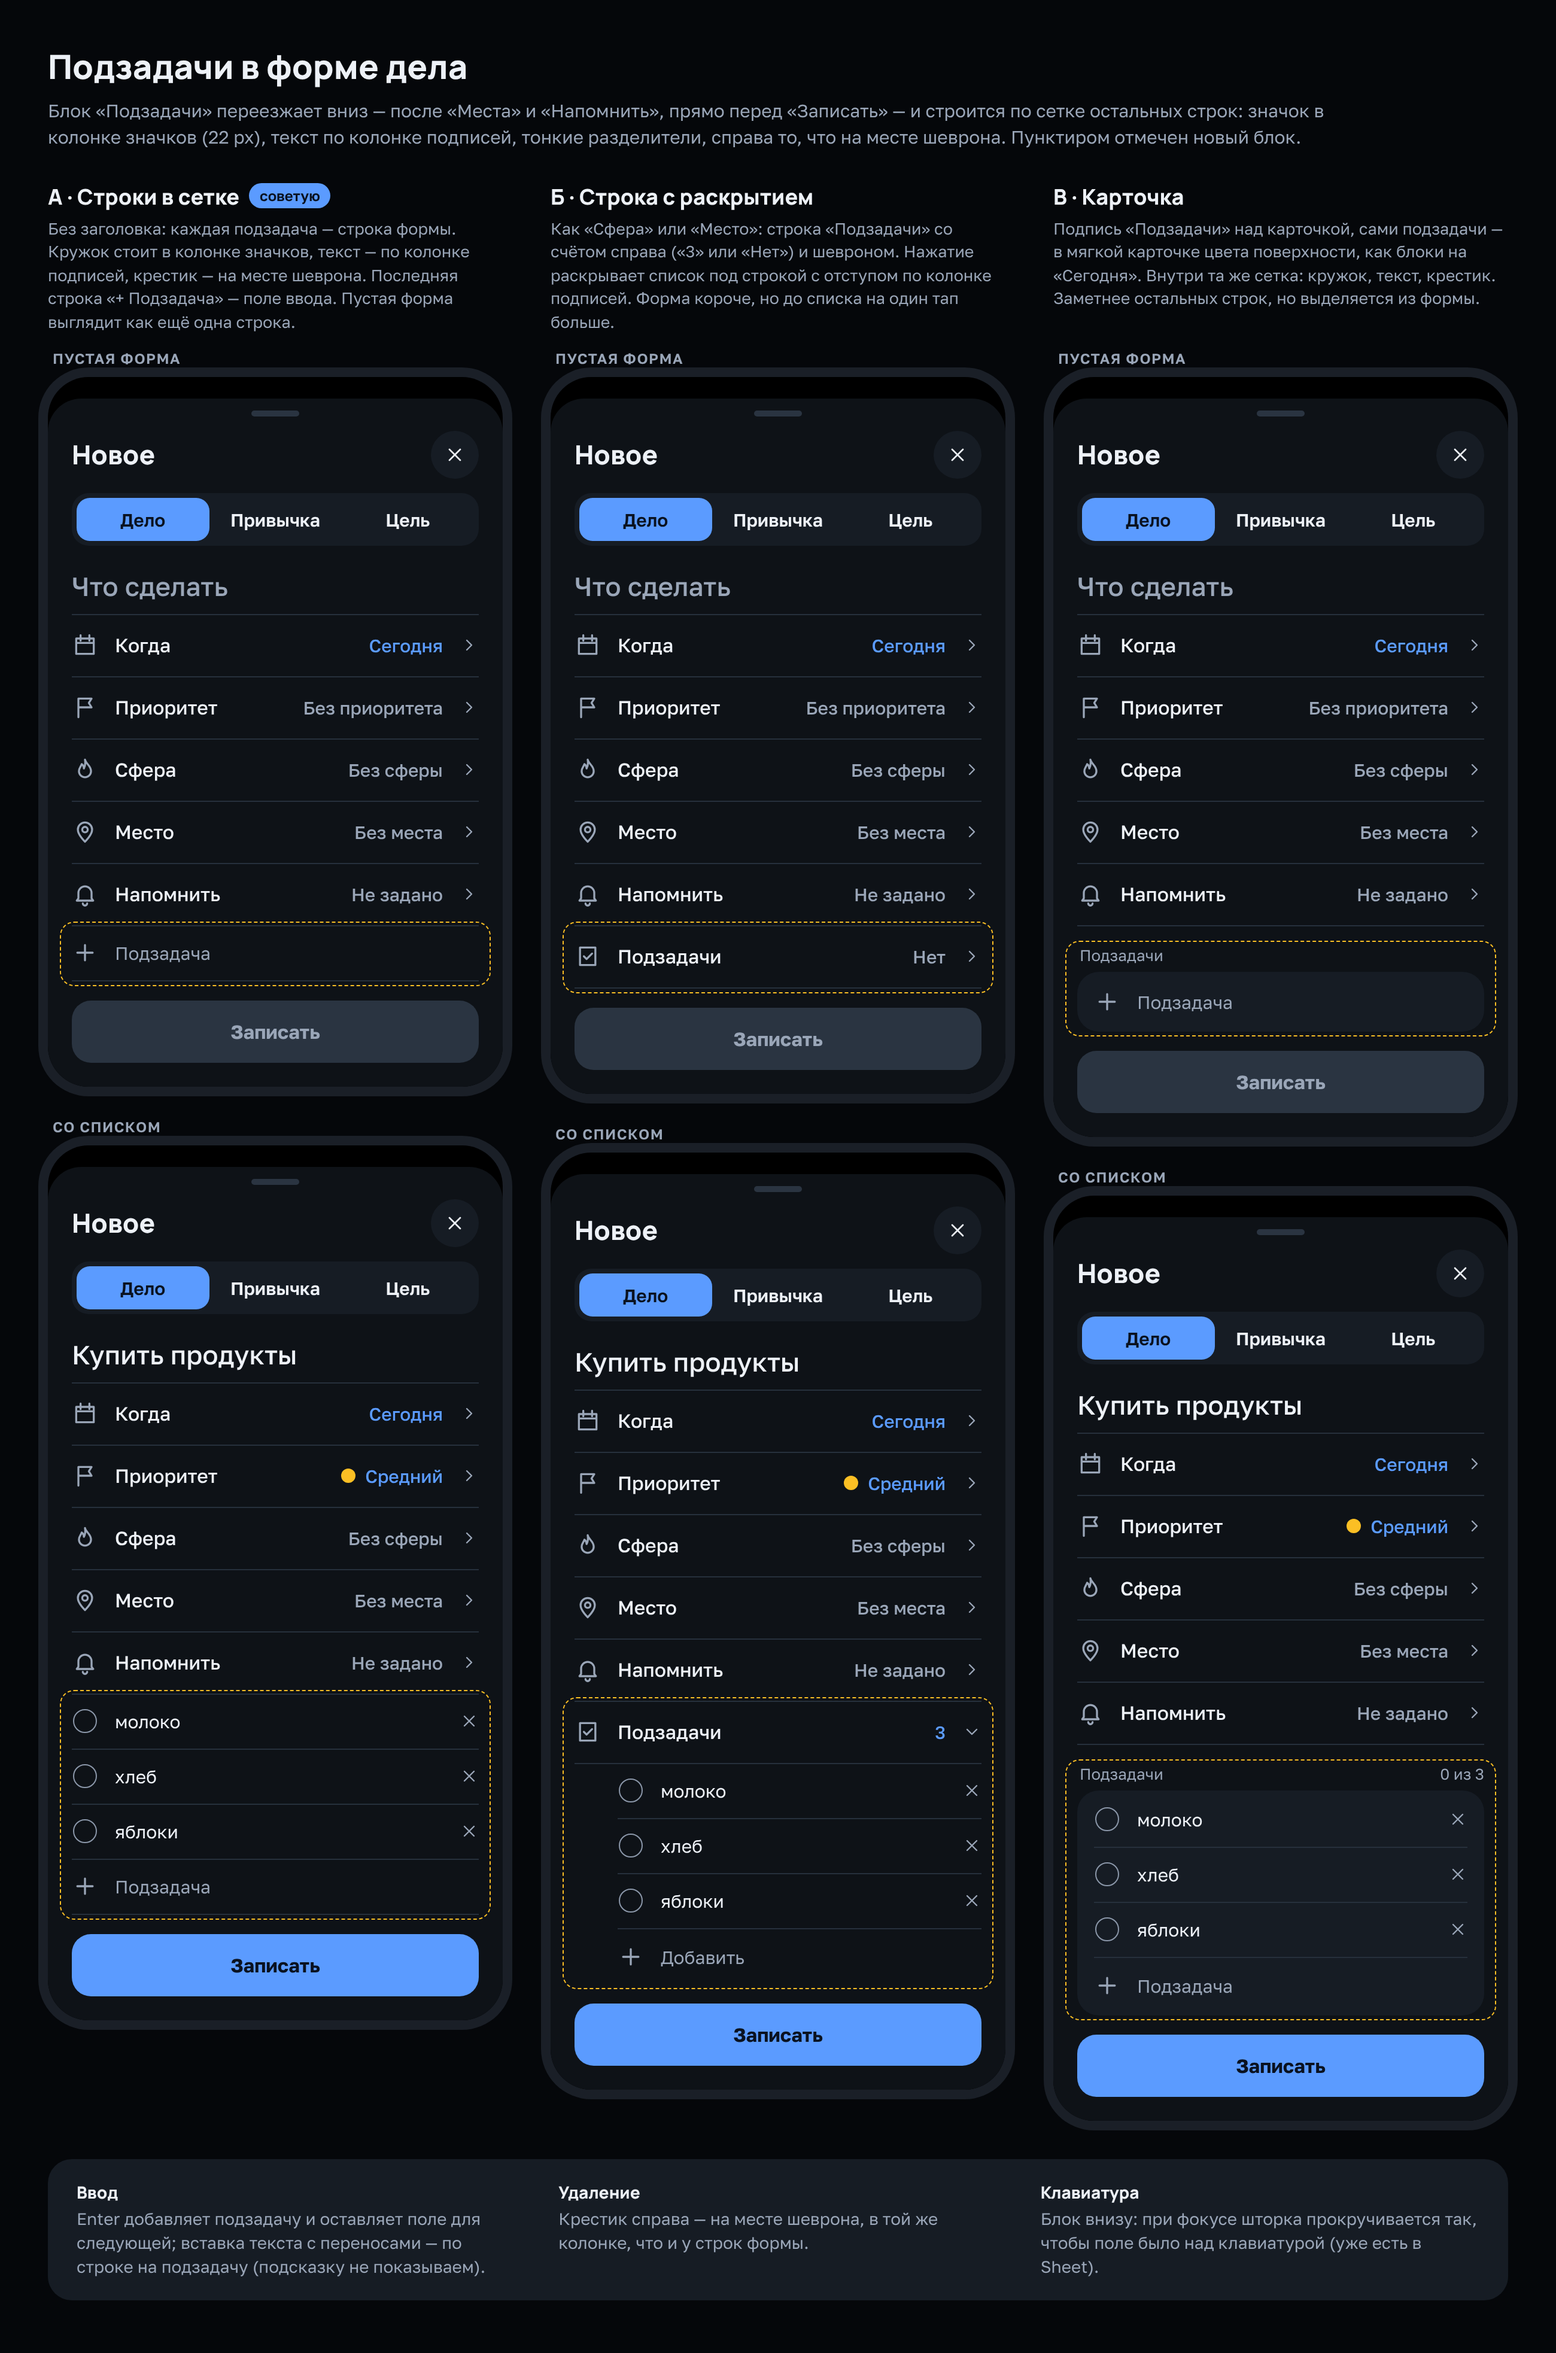
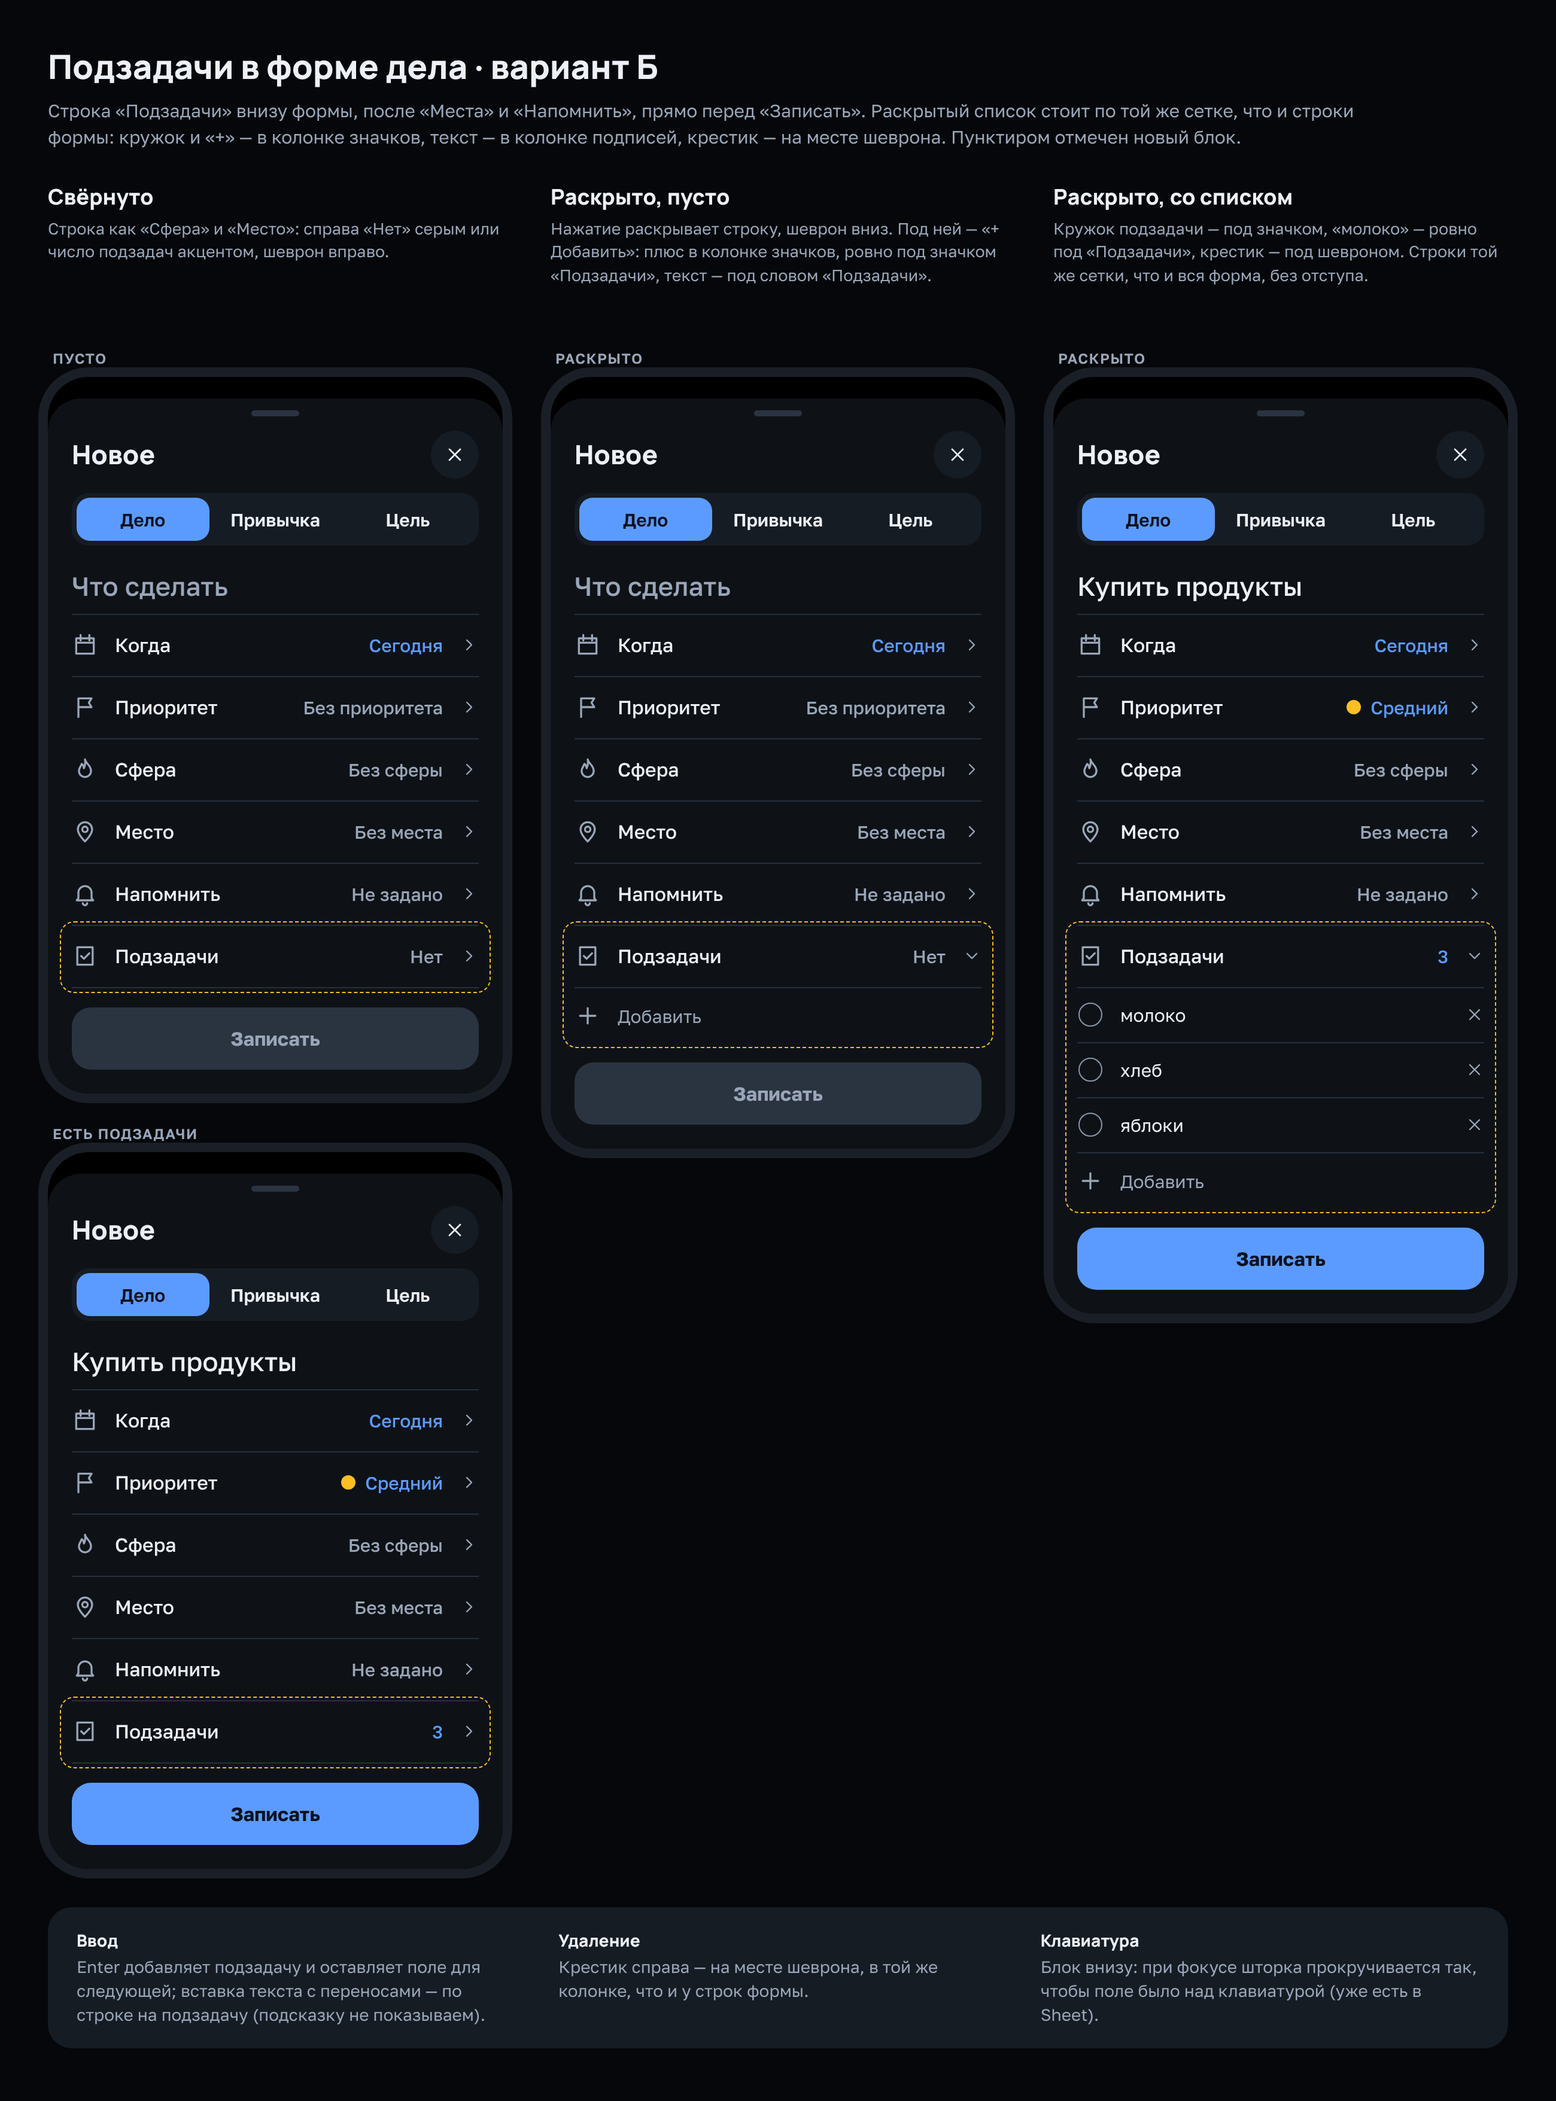
Макет: подзадачи — вариант Б, список по сетке строк формы
Claude-Session: https://claude.ai/code/session_01Xfb9f3TWPo8ZCvpizeW4YD

Changed region(s): [[0.0, 0.0, 0.9969, 0.9932], [0.8412, 0.2483, 0.9346, 0.4035], [0.5608, 0.5897, 0.5919, 0.7138]]

diff --git a/design/subtasks-form/subtasks-form.html b/design/subtasks-form/subtasks-form.html
@@ -1,7 +1,7 @@
 <!doctype html>
 <!--
-  Макет: блок «Подзадачи» в шторке «Новое» — внизу формы, перед «Записать», в одном ряду со строками.
-  Три варианта, у каждого пустое и заполненное состояние. «Обычный», тема «Вечер» (normalDark).
+  Макет: блок «Подзадачи» в шторке «Новое» — внизу формы, перед «Записать», строка с раскрытием (вариант Б).
+  Свёрнуто, раскрыто пусто, раскрыто со списком; список по сетке строк формы. «Обычный», тема «Вечер» (normalDark).
   Шрифты берутся из node_modules (после `npm install` открывается как есть).
   Картинка для просмотра — subtasks-form.png рядом.
 -->
@@ -58,7 +58,7 @@
       .sub .t { flex: 1; font-size: 15px; }
       .sub .t.ph { color: var(--muted); }
       .sub.add .t { color: var(--muted); }
-      .indent { padding-left: 36px; }
+      .indent { padding-left: 0; }
       .indent .sub:last-child { border-bottom: none; }
       .card { background: var(--surface); border-radius: 18px; padding: 2px 14px; }
       .card .sub:last-child { border-bottom: none; }
@@ -69,11 +69,11 @@
     </style>
   </head>
   <body>
-    <h1>Подзадачи в форме дела</h1>
+    <h1>Подзадачи в форме дела · вариант Б</h1>
     <p class="lead">
-      Блок «Подзадачи» переезжает вниз — после «Места» и «Напомнить», прямо перед «Записать» — и
-      строится по сетке остальных строк: значок в колонке значков (22 px), текст по колонке подписей,
-      тонкие разделители, справа то, что на месте шеврона. Пунктиром отмечен новый блок.
+      Строка «Подзадачи» внизу формы, после «Места» и «Напомнить», прямо перед «Записать». Раскрытый
+      список стоит по той же сетке, что и строки формы: кружок и «+» — в колонке значков, текст — в
+      колонке подписей, крестик — на месте шеврона. Пунктиром отмечен новый блок.
     </p>
     <div class="grid" id="root"></div>
     <div class="legend">
@@ -121,36 +121,36 @@
         </div></div>`;
       }
 
+      const head = (f, open) =>
+        row('tasks', 'Подзадачи', f ? '3' : 'Нет', { set: f, open });
+      const list = (f) =>
+        `<div class="indent">${(f ? ITEMS.map((x) => sub(x)).join('') : '') + addSub('Добавить')}</div>`;
       const VARIANTS = [
         {
-          name: 'А · Строки в сетке',
-          rec: true,
-          cap: 'Без заголовка: каждая подзадача — строка формы. Кружок стоит в колонке значков, текст — по колонке подписей, крестик — на месте шеврона. Последняя строка «+ Подзадача» — поле ввода. Пустая форма выглядит как ещё одна строка.',
-          block: (f) => (f ? ITEMS.map((x) => sub(x)).join('') : '') + addSub(),
+          name: 'Свёрнуто',
+          cap: 'Строка как «Сфера» и «Место»: справа «Нет» серым или число подзадач акцентом, шеврон вправо.',
+          states: [
+            ['Пусто', false, (f) => head(f, false)],
+            ['Есть подзадачи', true, (f) => head(f, false)],
+          ],
         },
         {
-          name: 'Б · Строка с раскрытием',
-          cap: 'Как «Сфера» или «Место»: строка «Подзадачи» со счётом справа («3» или «Нет») и шевроном. Нажатие раскрывает список под строкой с отступом по колонке подписей. Форма короче, но до списка на один тап больше.',
-          block: (f) =>
-            f
-              ? row('tasks', 'Подзадачи', '3', { set: true, open: true }) +
-                `<div class="indent">${ITEMS.map((x) => sub(x)).join('')}${addSub('Добавить')}</div>`
-              : row('tasks', 'Подзадачи', 'Нет'),
+          name: 'Раскрыто, пусто',
+          cap: 'Нажатие раскрывает строку, шеврон вниз. Под ней — «+ Добавить»: плюс в колонке значков, ровно под значком «Подзадачи», текст — под словом «Подзадачи».',
+          states: [['Раскрыто', false, (f) => head(f, true) + list(f)]],
         },
         {
-          name: 'В · Карточка',
-          cap: 'Подпись «Подзадачи» над карточкой, сами подзадачи — в мягкой карточке цвета поверхности, как блоки на «Сегодня». Внутри та же сетка: кружок, текст, крестик. Заметнее остальных строк, но выделяется из формы.',
-          block: (f) =>
-            `<div class="sect"><span>Подзадачи</span><span>${f ? '0 из 3' : ''}</span></div><div class="card">${(f ? ITEMS.map((x) => sub(x)).join('') : '') + addSub()}</div>`,
+          name: 'Раскрыто, со списком',
+          cap: 'Кружок подзадачи — под значком, «молоко» — ровно под «Подзадачи», крестик — под шевроном. Строки той же сетки, что и вся форма, без отступа.',
+          states: [['Раскрыто', true, (f) => head(f, true) + list(f)]],
         },
       ];
 
       document.getElementById('root').innerHTML = VARIANTS.map(
         (v) => `<div>
-          <div class="head">${v.name}${v.rec ? '<small>советую</small>' : ''}</div>
+          <div class="head">${v.name}</div>
           <div class="cap">${v.cap}</div>
-          <div class="state">Пустая форма</div>${form(false, v.block)}
-          <div class="state">Со списком</div>${form(true, v.block)}
+          ${v.states.map(([st, f, block]) => `<div class="state">${st}</div>${form(f, block)}`).join('')}
         </div>`
       ).join('');
     </script>

diff --git a/design/README.md b/design/README.md
@@ -48,9 +48,9 @@
 
 ## Подзадачи в форме дела
 
-`subtasks-form/subtasks-form.png` (исходник — `subtasks-form.html`) — где и как стоит блок «Подзадачи» в
-шторке «Новое» («Обычный», «Вечер»): внизу, перед «Записать», по сетке строк формы. Три варианта —
-строки в сетке, строка с раскрытием, карточка; у каждого пустая форма и форма со списком.
+`subtasks-form/subtasks-form.png` (исходник — `subtasks-form.html`) — блок «Подзадачи» в шторке «Новое»
+(«Обычный», «Вечер»): внизу, перед «Записать», строкой с раскрытием, как «Сфера» и «Место». Свёрнуто
+(«Нет» или число), раскрыто пусто и со списком; кружки и «+» — в колонке значков, текст — в колонке подписей.
 
 ## Архив
 
